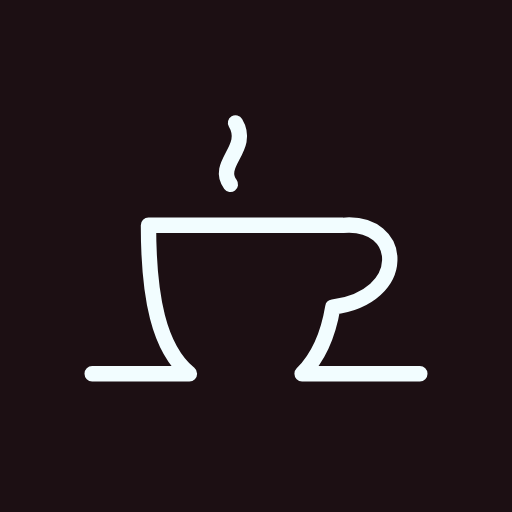
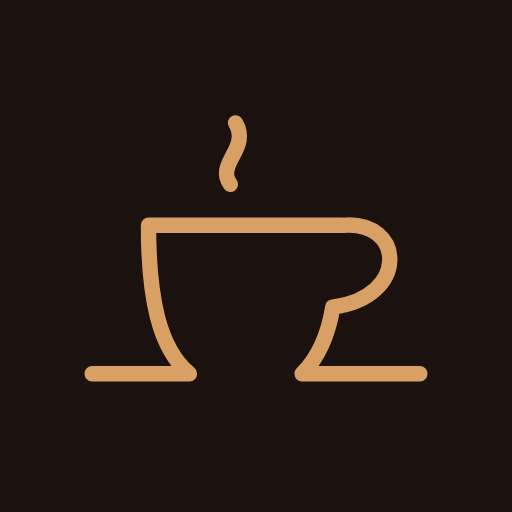
Warm, tea-toned palette with a single chai accent
Title in chai, milk-foam text instead of cool white, warm taupe for
secondary text, a warm quote card in place of the indigo one, chai for
selected tabs and saved bookmarks, muted story tags, and a chai icon.

Claude-Session: https://claude.ai/code/session_01Cgd9gUgktFazwuF5X4sTWw

Changed region(s): [[0.1562, 0.4062, 0.8438, 0.75], [0.4062, 0.2188, 0.5, 0.375]]

diff --git a/index.html b/index.html
@@ -5,7 +5,7 @@
 <meta name="viewport" content="width=device-width, initial-scale=1, viewport-fit=cover">
 <title>The Daily Chai</title>
 <meta name="description" content="A daily five-minute digest of B2B tech news with product marketing takeaways.">
-<meta name="theme-color" content="#1C0F13">
+<meta name="theme-color" content="#1B110E">
 <meta name="apple-mobile-web-app-capable" content="yes">
 <meta name="mobile-web-app-capable" content="yes">
 <meta name="apple-mobile-web-app-status-bar-style" content="black-translucent">
@@ -18,16 +18,16 @@
 <style>
 /* Layout: one narrow reading column with a tab bar: Today, Past cups, Saved. */
 :root {
-  /* Palette: Coffee Bean, Oxidized Iron, Azure Mist, Electric Sapphire, Slate Grey. Always dark. */
-  --bg: #1C0F13;
-  --surface: #28181D;
-  --ink: #F2FDFF;
-  --muted: #9EAEC4;
-  --line: #3C2A30;
-  --matcha: #D9A066;
-  --matcha-soft: #2C2D58;
-  --sage: #2C2D58;
-  --chai: #9BA2FF;
+  /* Palette: warm and tea-toned. Coffee-bean ground, milk-foam text, one chai accent. Always dark. */
+  --bg: #1B110E;          /* coffee bean */
+  --surface: #261915;     /* cards */
+  --ink: #F7EFE5;         /* milk foam */
+  --muted: #B5A496;       /* warm taupe */
+  --line: #3D2B23;
+  --matcha: #D9A066;      /* chai: the one accent */
+  --matcha-soft: #3A2717; /* chai tint for selected states */
+  --sage: #31211A;        /* raised surface for the quote */
+  --chai: #D9A066;
   color-scheme: dark;
   --title: "League Spartan", "Futura", "Avenir Next", system-ui, sans-serif;
   --display: "DM Sans", system-ui, -apple-system, sans-serif;
@@ -42,11 +42,12 @@ body { margin: 0; background: var(--bg); color: var(--ink); font-family: var(--b
   display: flex; flex-direction: column; gap: 36px; }
 header { display: flex; flex-direction: column; gap: 4px; }
 .date { font-size: 12px; letter-spacing: .08em; text-transform: uppercase; color: var(--muted); font-weight: 500; }
-h1 { font-family: var(--title); font-weight: 800; font-size: clamp(36px, 10vw, 54px); line-height: .95; margin: 6px 0 0; letter-spacing: .01em; text-transform: uppercase; }
+h1 { color: var(--matcha); font-family: var(--title); font-weight: 800; font-size: clamp(36px, 10vw, 54px); line-height: .95; margin: 6px 0 0; letter-spacing: .01em; text-transform: uppercase; }
 .tag { color: var(--muted); margin: 4px 0 0; font-size: 15px; }
 .label { font-size: 12px; letter-spacing: .1em; text-transform: uppercase; font-weight: 600; color: var(--muted); }
-.quote { background: var(--sage); border-radius: 16px; padding: 22px; display: flex; flex-direction: column; gap: 12px; }
+.quote { position: relative; background: var(--sage); border: 1px solid var(--line); border-radius: 16px; padding: 22px; display: flex; flex-direction: column; gap: 12px; }
 .quote blockquote { margin: 0; font-family: var(--display); font-weight: 500; font-size: clamp(19px, 4.4vw, 23px); line-height: 1.35; text-wrap: balance; }
+.quote .mark { color: var(--matcha); }
 .quote .who { color: var(--muted); font-size: 14px; }
 .row { display: flex; justify-content: space-between; align-items: center; gap: 12px; flex-wrap: wrap; }
 h2 { font-family: var(--title); font-size: 22px; letter-spacing: .04em; text-transform: uppercase; font-weight: 800; color: var(--ink); margin: 0; line-height: 1; padding-top: 4px; }
@@ -57,7 +58,7 @@ h2 { font-family: var(--title); font-size: 22px; letter-spacing: .04em; text-tra
 .story p { margin: 0; font-size: 15px; color: var(--muted); }
 .story .pmm { color: var(--ink); }
 .meta { display: flex; gap: 8px; align-items: center; flex-wrap: wrap; font-size: 12px; color: var(--muted); }
-.kind { color: var(--matcha); font-weight: 600; text-transform: uppercase; letter-spacing: .08em; font-size: 11px; }
+.kind { color: var(--muted); font-weight: 600; text-transform: uppercase; letter-spacing: .08em; font-size: 11px; }
 .pmm { padding-top: 2px; }
 .pmm b { display: block; color: var(--matcha); font-size: 11px; letter-spacing: .1em; text-transform: uppercase; font-weight: 600; margin-bottom: 2px; }
 .foot { display: flex; justify-content: space-between; align-items: center; gap: 10px; flex-wrap: wrap; font-size: 13px; padding-top: 4px; }
@@ -65,7 +66,6 @@ h2 { font-family: var(--title); font-size: 22px; letter-spacing: .04em; text-tra
 .swap { border: 0; padding: 4px 0; color: var(--matcha); }
 a { color: var(--matcha); }
 button { font: inherit; font-size: 13px; font-weight: 600; color: var(--ink); background: transparent; border: 1px solid var(--line); border-radius: 99px; padding: 6px 12px; cursor: pointer; }
-.quote button { border-color: var(--chai); }
 button:hover { border-color: var(--matcha); color: var(--matcha); }
 button:focus-visible { outline: 2px solid var(--matcha); outline-offset: 2px; }
 button:disabled { opacity: .45; cursor: default; }
@@ -112,7 +112,7 @@ html, body { overscroll-behavior-y: contain; }
 .pour[data-flavor="hot"] .wave { fill: #C8562E; }
 .tabs { display: flex; gap: 6px; flex-wrap: wrap; }
 .tabs a { text-decoration: none; color: var(--muted); font-size: 14px; font-weight: 500; padding: 6px 12px; border-radius: 99px; border: 1px solid var(--line); }
-.tabs a[aria-current="page"] { color: var(--ink); background: var(--sage); border-color: var(--sage); }
+.tabs a[aria-current="page"] { color: var(--matcha); background: var(--matcha-soft); border-color: var(--matcha-soft); }
 .section { display: flex; flex-direction: column; gap: 14px; }
 .story .actions { display: flex; gap: 16px; align-items: center; }
 #view { display: flex; flex-direction: column; gap: 36px; }
@@ -120,7 +120,7 @@ html, body { overscroll-behavior-y: contain; }
 .story { position: relative; }
 .story .meta { padding-right: 40px; }
 .save { position: absolute; top: 12px; right: 12px; width: 40px; height: 40px; border: 0; border-radius: 99px; padding: 0; display: grid; place-items: center; color: var(--muted); }
-.save:hover { color: var(--chai); }
+.save:hover { color: var(--ink); }
 .save[aria-pressed="true"] { color: var(--chai); }
 .save svg { width: 20px; height: 20px; }
 .save[aria-pressed="true"] path { fill: currentColor; }
@@ -137,7 +137,7 @@ html, body { overscroll-behavior-y: contain; }
 .confirm .btns { display: flex; gap: 10px; flex-wrap: wrap; }
 .primary { background: var(--matcha); border-color: var(--matcha); color: var(--bg); }
 .primary:hover { color: var(--bg); opacity: .9; }
-.toast { position: fixed; left: 50%; bottom: calc(20px + env(safe-area-inset-bottom, 0px)); transform: translate(-50%, 20px); opacity: 0; background: var(--ink); color: var(--bg); font-size: 14px; font-weight: 600; padding: 10px 16px; border-radius: 99px; transition: opacity .25s, transform .25s; pointer-events: none; max-width: calc(100% - 32px); text-align: center; }
+.toast { position: fixed; left: 50%; bottom: calc(20px + env(safe-area-inset-bottom, 0px)); transform: translate(-50%, 20px); opacity: 0; background: var(--ink); color: var(--bg); font-size: 14px; font-weight: 600; padding: 10px 16px; border-radius: 99px; transition: opacity .25s, transform .25s; pointer-events: none; max-width: calc(100% - 32px); text-align: center; white-space: nowrap; }
 .toast.show { opacity: 1; transform: translate(-50%, 0); }
 @media (prefers-reduced-motion: reduce) { .toast { transition: none; } }
 .list { display: flex; flex-direction: column; gap: 10px; }
@@ -266,7 +266,7 @@ function renderEdition(ed, isToday, fromPast) {
     ${fromPast ? `<a class="back" href="#past"><svg viewBox="0 0 24 24" aria-hidden="true"><path d="M15 5l-7 7 7 7" fill="none" stroke="currentColor" stroke-width="2" stroke-linecap="round" stroke-linejoin="round"/></svg>Back to past cups</a>` : ""}
     <section class="section">
       <h2>${isToday ? "Today's sip" : "That day's sip"}</h2>
-      <div class="quote"><blockquote>“${esc(ed.quote.text)}”</blockquote>
+      <div class="quote"><blockquote><span class="mark">“</span>${esc(ed.quote.text)}<span class="mark">”</span></blockquote>
       <div class="who">${esc(ed.quote.who)}</div></div>
     </section>
     <section class="section">

diff --git a/sw.js b/sw.js
@@ -1,5 +1,5 @@
 // Network first so each morning's edition shows up; falls back to the last copy when offline.
-const CACHE = "tea-v19";
+const CACHE = "tea-v20";
 self.addEventListener("install", e => { self.skipWaiting(); });
 self.addEventListener("activate", e => e.waitUntil(self.clients.claim()));
 self.addEventListener("fetch", e => {
